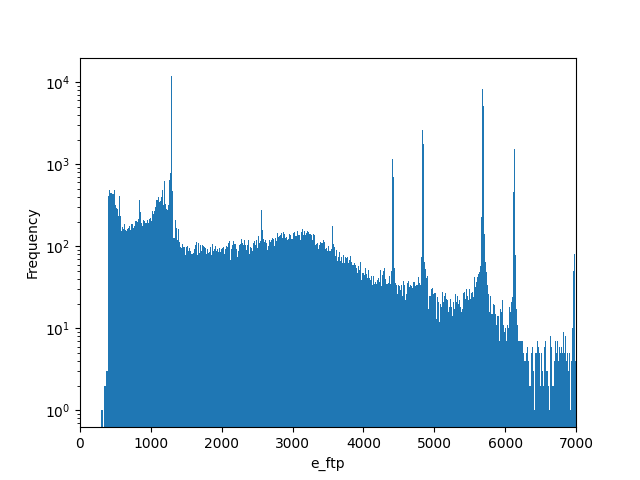
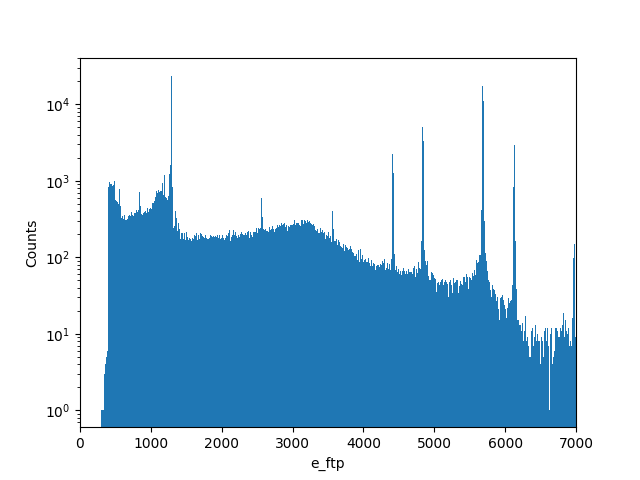
Calibration on Ba data

diff --git a/Ba133_analysis/Ba133_analysis.py b/Ba133_analysis/Ba133_analysis.py
@@ -19,41 +19,101 @@ def main():
     keys, data = read_all_t2(t2_folder)
 
     no_events = data.size #all events
+    print("No. events: ", no_events)
+
     key = "e_ftp"
     key_data = obtain_key_data(data, keys, key, no_events)
 
+    no_bins = 50000
+
     plt.figure()
-    counts, bins, bars = plt.hist(key_data, bins=100000)
+    counts, bins, bars = plt.hist(key_data, bins=no_bins)
     plt.yscale("log")
     plt.xlabel("e_ftp")
-    plt.ylabel("Frequency")
+    plt.ylabel("Counts")
     plt.xlim(0, 40000)
     plt.savefig("/lfs/l1/legend/users/aalexander/HADES_detchar/Ba133_analysis/plots/e_ftp.png")
 
     plt.figure()
-    counts, bins, bars = plt.hist(key_data, bins=100000)
+    counts, bins, bars = plt.hist(key_data, bins=no_bins)
     plt.yscale("log")
     plt.xlabel("e_ftp")
-    plt.ylabel("Frequency")
+    plt.ylabel("Counts")
     plt.xlim(0, 7000)
     plt.savefig("/lfs/l1/legend/users/aalexander/HADES_detchar/Ba133_analysis/plots/e_ftp_zoom.png")
 
 
-    #Calibrate via known peaks
+    #___________Calibration__________
+    print("Calibrating...")
 
-    #356 keV
-    xmin_356, xmax_356 = 5625, 5750
+    #Fit known calibration peaks from: 
+    #https://www.ezag.com/fileadmin/ezag/user-uploads/isotopes/isotopes/Isotrak/isotrak-pdf/Decay_Schema_Data/Ba-133.pdf
+
+    truth_energies = np.array([81.0, 276.40,302.85,356.02,383.85]) #keV
+    peak_lims_guess = [[1275, 1310], [4375, 4450], [4805,4870], [5640,5730], [6090,6170]] #rough guess on peak window
+
+    mu_peaks = []
+    sigma_peaks = []
+    mu_err_peaks = []
+    sigma_err_peaks = []
+
+    for index, truth in enumerate(truth_energies):        
+        truth_str = str(int(truth))
+        print("fitting peak: ", truth_str, " keV")
+        xmin, xmax = peak_lims_guess[index][0], peak_lims_guess[index][1]
+        print(xmin, " , ", xmax)
+        plt.figure()
+        mu, sigma, mu_err, sigma_err = fit_peak(key, bins, counts, xmin, xmax)
+        mu_peaks.append(mu)
+        sigma_peaks.append(sigma)
+        mu_err_peaks.append(mu_err)
+        sigma_err_peaks.append(sigma_err)
+        counts, bins, bars = plt.hist(key_data, bins=no_bins, histtype='step', color='grey')
+        plt.xlim(xmin, xmax)
+        plt.title(truth_str+" keV peak")
+        plt.yscale("log")
+        plt.savefig("/lfs/l1/legend/users/aalexander/HADES_detchar/Ba133_analysis/plots/"+truth_str+"keV_peak_uncal.png")
+
+
+    #Plot calibration curves:
+    print("")
+    print("Construct calibration curve...")
+    calibration_data, calibration_data_err = np.array(mu_peaks), np.array(mu_err_peaks)
     plt.figure()
-    mu_ep, sigma_ep, mu_err_ep, sigma_err_ep = fit_peak(key, bins, counts, xmin_356, xmax_356)
-    plt.title("356 keV peak")
-    plt.savefig("/lfs/l1/legend/users/aalexander/HADES_detchar/Ba133_analysis/plots/356keV_peak.png")
+    m, c, m_err, c_err, chi_sq, p_value, residuals, dof = calibration(calibration_data, calibration_data_err, truth_energies, fittype="linear_fit")
+    for x, y in zip(truth_energies, calibration_data):
+        truth_str = str(int(x))
+        plt.annotate(truth_str, (x,y), textcoords="offset points", xytext=(-5,5), ha='center') # horizontal alignment can be left, right or center
+    plt.savefig("/lfs/l1/legend/users/aalexander/HADES_detchar/Ba133_analysis/plots/calibration_curve_linear.png")
+
+    #plot residuals
+    plt.figure()
+    residuals_err = [1.0]*len(residuals) #error on residuals is 1 by definition
+    plt.errorbar(truth_energies, residuals, yerr = residuals_err, fmt ='bo', ms = 1.0, mew = 3.0))
+    plt.ylabel("r=(data-fit)/error")
+    plt.xlabel("Energy (keV)")
+    plt.title("Residual Plot for Calibration Graph")
+    for x, y in zip(truth_energies, residuals):
+        truth_str = str(int(x))
+        plt.annotate(truth_str, (x,y), textcoords="offset points", xytext=(0,5), ha='center') # horizontal alignment can be left, right or center 
+    plt.axhline(linewidth=2, color='black', dashes = (5,2,1,2))
+    plt.savefig("/lfs/l1/legend/users/aalexander/HADES_detchar/Ba133_analysis/plots/calibration_residuals.png")
 
 
+    #try non-linear calibration
+    plt.figure()
+    a, b, c_quad, a_err, b_err, c_quad_err, chi_sq, p_value, residuals, dof = calibration(calibration_data, calibration_data_err, truth_energies, fittype="quadratic_fit")
+    for x, y in zip(truth_energies, calibration_data):
+        truth_str = str(int(x))
+        plt.annotate(truth_str, (x,y), textcoords="offset points", xytext=(-5,5), ha='center') 
+    plt.savefig("/lfs/l1/legend/users/aalexander/HADES_detchar/Ba133_analysis/plots/calibration_curve_quadratic.png")
 
 
-    #Calibrate - use linear calibration coefficients from previous work
-    m, m_err = 15.786, 0.007
-    c, c_err = -387.802, 11.591
+    #Linearly calibrated data:
+    print("")
+    print("Linearly calibrate energy..")
+
+    #bin_width = 0.5 #0.5 kev = resolution
 
     calibrated_energy = (key_data-c)/m
     plt.figure()
@@ -74,6 +134,43 @@ def main():
     plt.savefig("/lfs/l1/legend/users/aalexander/HADES_detchar/Ba133_analysis/plots/calibrated_energy_zoom.png") 
 
 
+
+
+
+    # #81 keV peak
+    # xmin_81, xmax_81 = 1100, 1300
+    # plt.figure()
+    # mu_81, sigma_81, mu_err_81, sigma_err_81 = fit_peak(key, bins, counts, xmin_356, xmax_356)
+    # counts, bins, bars = plt.hist(key_data, bins=no_bins, histtype='step', color='grey')
+    # plt.xlim(xmin_356, xmax_356)
+    # plt.title("356 keV peak")
+    # plt.yscale("log")
+    # plt.savefig("/lfs/l1/legend/users/aalexander/HADES_detchar/Ba133_analysis/plots/356keV_peak.png")
+
+
+
+    # #356 keV peak
+    # xmin_356, xmax_356 = 5625, 5750
+    # plt.figure()
+    # mu_356, sigma_356, mu_err_356, sigma_err_356 = fit_peak(key, bins, counts, xmin_356, xmax_356)
+    # counts, bins, bars = plt.hist(key_data, bins=no_bins, histtype='step', color='grey')
+    # plt.xlim(xmin_356, xmax_356)
+    # plt.title("356 keV peak")
+    # plt.yscale("log")
+    # plt.savefig("/lfs/l1/legend/users/aalexander/HADES_detchar/Ba133_analysis/plots/356keV_peak.png")
+
+    
+    #__________CALIBRATED___________
+
+
+
+
+    # #Calibrate - use linear calibration coefficients from previous work
+    # m, m_err = 15.786, 0.007
+    # c, c_err = -387.802, 11.591
+
+    
+    
 
     #fit peaks for dlt observable
 
@@ -103,11 +200,11 @@ def read_all_t2(t2_folder):
     #print(df_total.describe())
     #print(df_total.head())
 
-    plt.figure()
-    df_total.hist('e_ftp',  bins = 10000) #testing
-    plt.ylabel("Frequency")
-    plt.yscale("log")
-    plt.savefig("/lfs/l1/legend/users/aalexander/HADES_detchar/Ba133_analysis/plots/e_ftp_pandas.png")
+    # plt.figure()
+    # df_total.hist('e_ftp',  bins = 10000) #testing
+    # plt.ylabel("Frequency")
+    # plt.yscale("log")
+    # plt.savefig("/lfs/l1/legend/users/aalexander/HADES_detchar/Ba133_analysis/plots/e_ftp_pandas.png")
 
     return keys, data
 
@@ -124,6 +221,11 @@ def gaussian(x,a,b,c,d):
     "gaussian function with offset d"
     f = a*np.exp(-((x-b)**2.0/(2.0*c**2.0))) +d
     return f
+
+# def gaussian_cdf_bkg(x,a,b,c,d):
+
+#     gaussian = a*np.exp(-((x-b)**2.0/(2.0*c**2.0))) +d
+#     cdf_bkg = 
 
 def linear_fit(x, m, c):
     "linear function"
@@ -170,32 +272,32 @@ def chi_sq_calc(xdata, ydata, yerr, fittype, popt):
         residuals.append(residual)
 
     N = len(y_exp) #number of data points
-    deg_freedom = N-1
-    chi_sq_red = chi_sq/deg_freedom
+    dof = N-1
+    chi_sq_red = chi_sq/dof
 
-    p_value = 1-stats.chi2.cdf(chi_sq, deg_freedom)
+    p_value = 1-stats.chi2.cdf(chi_sq, dof)
     
 
-    print("chisq with errors:")
-    print("chisq: ", chi_sq)
-    print("dof: ", deg_freedom)
-    print("p: ", p_value)
+    # print("chisq with errors:")
+    # print("chisq: ", chi_sq)
+    # print("dof: ", deg_freedom)
+    # print("p: ", p_value)
 
-    return chi_sq, p_value, residuals
+    return chi_sq, p_value, residuals, dof
 
 
 def fit_peak(key, bins, counts, xmin, xmax): #p_guess):
     "fit a gaussian to a peak and return mean and FWHM range"
 
     #counts, bins, bars = plt.hist(key_data, bins=10000)
-    no_bins = bins.size #=initially 10000
+    no_bins = bins.size 
 
     xdata = []
     ydata = []
     for bin in bins:
-        #bin = bin - 0.5*(max(bins)-(min(bins)))/no_bins #this leads to incorrect indexing so leave out for now
-        if bin < xmax and bin > xmin:
-            xdata.append(bin)
+        bin_centre = bin + 0.5*(max(bins)-(min(bins)))/no_bins #this leads to incorrect indexing so leave out for now
+        if bin_centre < xmax and bin_centre > xmin:
+            xdata.append(bin_centre)
             bin_index = np.where(bins == bin)[0][0]
             ydata.append(counts[bin_index])
 
@@ -224,23 +326,74 @@ def fit_peak(key, bins, counts, xmin, xmax): #p_guess):
     mu_err, sigma_err = np.sqrt(pcov[1][1]), np.sqrt(pcov[2][2])
     
     fig, ax = plt.subplots()
-    ax.errorbar(xdata, ydata, xerr=0, yerr =yerr, label = "Data", elinewidth = 1, fmt='x', ms = 1.5, mew = 4.0)
+    ax.errorbar(xdata, ydata, xerr=0, yerr =yerr, label = "Data", elinewidth = 1, fmt='x', ms = 0.75, mew = 3.0)
     xfit = np.linspace(min(xdata), max(xdata), 1000)
     plt.plot(xfit, gaussian(xfit,*popt), "g", label = "Gaussian fit")
     plt.xlabel(key)
-    plt.ylabel("Frequency")
+    plt.ylabel("Counts")
     plt.legend()
 
-    chi_sq, p_value, residuals = chi_sq_calc(xdata, ydata, yerr, "gaussian", popt)
+    chi_sq, p_value, residuals, dof = chi_sq_calc(xdata, ydata, yerr, "gaussian", popt)
 
     props = dict(boxstyle='round', facecolor='wheat', alpha=0.5)
-    info_str = '\n'.join((r'$\mu=%.3f \pm %.3f$' % (mu, mu_err, ), r'$\sigma=%.3f \pm %.3f$' % (np.abs(sigma), sigma_err,), r'$\chi^2=%.3f$'%chi_sq, r'$p=%.3g$'%p_value))
-    ax.text(0.05, 0.95, info_str, transform=ax.transAxes, fontsize=10,verticalalignment='top', bbox=props)
+    info_str = '\n'.join((r'$\mu=%.2f \pm %.2f$' % (mu, mu_err, ), r'$\sigma=%.2f \pm %.2f$' % (np.abs(sigma), sigma_err,), r'$\chi^2/dof=%.0f/%.0f$'%(chi_sq, dof))) #, r'$p=%.3g$'%p_value))
+    ax.text(0.95, 0.05, info_str, transform=ax.transAxes, fontsize=10,verticalalignment='top', bbox=props)
 
     FWHM = 2*np.sqrt(2*np.log(2))*sigma #gaussian FWHM relationship
     peak_range = [mu-FWHM, mu+FWHM]
 
     return mu, sigma, mu_err, sigma_err
+
+
+def calibration(data, data_err, truth, fittype):
+    "calibrate energy data for given peaks, fittype = linear_fit or quadratic_fit"
+    xdata = truth
+    ydata = data
+    yerr = data_err
+
+    if fittype == "linear_fit":
+        popt, pcov = optimize.curve_fit(linear_fit, xdata, ydata, sigma = yerr, maxfev = 1000000, method ="trf")
+        m, c = popt[0], popt[1]
+        m_err, c_err = np.sqrt(pcov[0][0]), np.sqrt(pcov[1][1])
+        fig, ax = plt.subplots()
+        xfit = np.linspace(min(xdata), max(xdata), 1000)
+        yfit = linear_fit(xfit,*popt)
+        plt.plot(xfit, yfit, "g", label = "linear fit")
+        ax.errorbar(truth, data, xerr=0, yerr =yerr, elinewidth = 1, fmt='x', ms = 1.5, mew = 4.0, label = "callibration peaks")
+        plt.xlabel("truth (keV)")
+        plt.ylabel("calibration peaks")
+        plt.legend(loc = 4)
+
+        chi_sq, p_value, residuals, dof = chi_sq_calc(xdata, ydata, yerr, "linear", popt)
+
+        props = dict(boxstyle='round', facecolor='wheat', alpha=0.5)
+        info_str = '\n'.join((r'$m = %.3f \pm %.3f$' % (m, m_err, ), r'$c = %.3f \pm %.3f$' % (c, c_err,), r'$\chi^2/dof=%.0f/%.0f$'%(chi_sq, dof)))# r'$\chi^2 = %.3f$'%(chi_sq), r'$p = %.3g$'%(p_value)))
+        ax.text(0.05, 0.95, info_str, transform=ax.transAxes, fontsize=10,verticalalignment='top', bbox=props)
+
+        return m, c, m_err, c_err , chi_sq, p_value, residuals, dof
+
+    if fittype == "quadratic_fit":
+        popt, pcov = optimize.curve_fit(quadratic_fit, xdata, ydata, sigma = yerr, maxfev = 1000000, method ="trf")
+        a,b,c = popt[0], popt[1], popt[2]
+        a_err, b_err, c_err = np.sqrt(pcov[0][0]), np.sqrt(pcov[1][1]), np.sqrt(pcov[2][2])
+        fig, ax = plt.subplots()
+        xfit = np.linspace(min(xdata), max(xdata), 1000)
+        yfit = quadratic_fit(xfit,*popt)
+        plt.plot(xfit, yfit, "g", label = "quadratic fit")
+        ax.errorbar(truth, data, xerr=0, yerr =yerr, elinewidth = 1, fmt='x', ms = 1.5, mew = 4.0, label = "callibration peaks")
+        plt.xlabel("truth (keV)")
+        plt.ylabel("calibration peaks")
+        plt.legend(loc = 4)
+
+        chi_sq, p_value, residuals, dof = chi_sq_calc(xdata, ydata, yerr, "quadratic", popt)
+
+        print("a: ", a)
+        props = dict(boxstyle='round', facecolor='wheat', alpha=0.5)
+        info_str = '\n'.join((r'$a = %.3g \pm %.3g$' % (a, a_err, ), r'$b = %.3f \pm %.3f$' % (b, b_err,), r'$c = %.3f \pm %.3f$' % (c, c_err,),  r'$\chi^2/dof=%.0f/%.0f$'%(chi_sq, dof))) #, r'$p = %.3g$'%(p_value)))
+        ax.text(0.05, 0.95, info_str, transform=ax.transAxes, fontsize=10,verticalalignment='top', bbox=props)
+
+        return a, b, c, a_err, b_err, c_err, chi_sq, p_value, residuals, dof
+
 
 if __name__ =="__main__":
     main()
